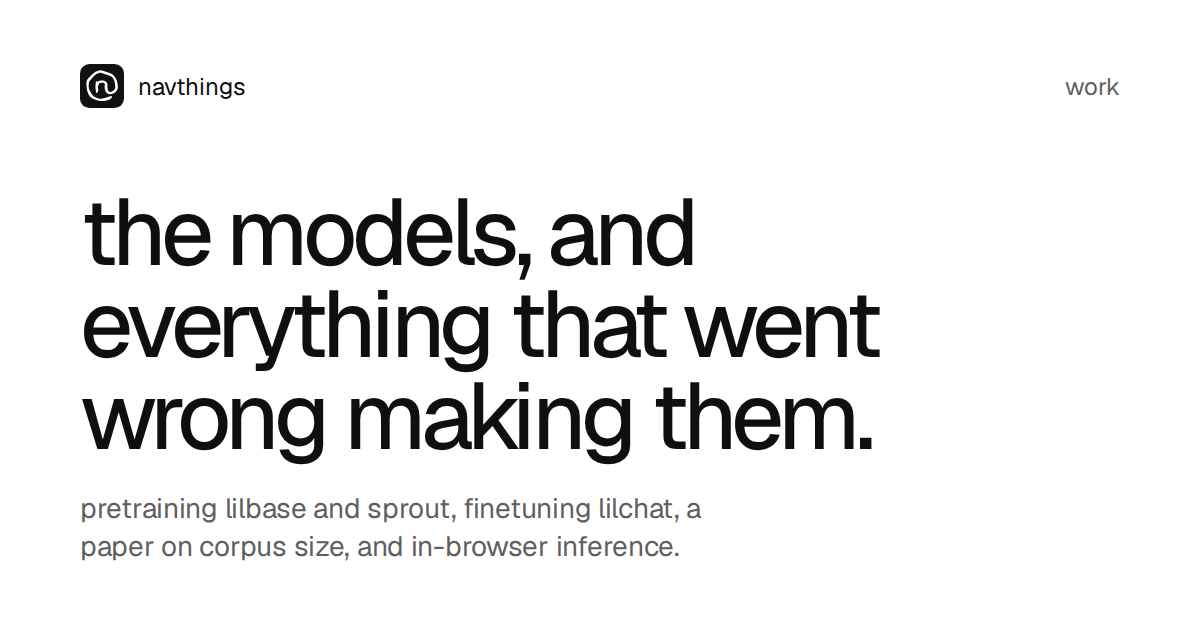
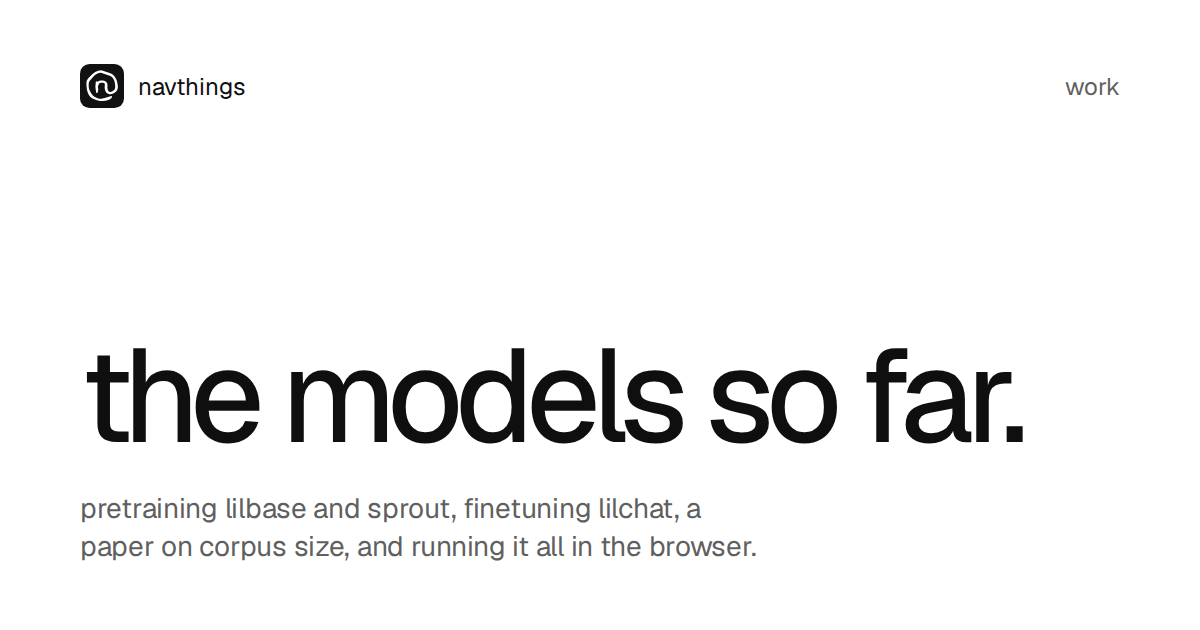
plainer copy: no more one line closers on the case studies, fewer lists and clever taglines, headings that just say what they are

Changed region(s): [[0.0617, 0.3016, 0.8633, 0.754], [0.3392, 0.8444, 0.6167, 0.9048]]

diff --git a/index.html b/index.html
@@ -72,7 +72,7 @@
       <div class="hero-inner">
         <h1 class="hero-title" data-tokens>hi, i'm nav. i build language models <span class="soft">and research how they <span data-scrib="circle" data-scrib-on="manual">learn</span>.</span></h1>
         <p class="hero-sub" data-reveal style="--d: 1.15s">
-          machine learning engineer and researcher in australia. i work on the whole loop: data, pretraining, finetuning, evaluation and inference. right now that's <a href="#sprout">sprout</a>, a 523m param base model about a third of the way through training.
+          machine learning engineer and researcher in australia. i train my own language models and test what they actually learned. right now thats <a href="#sprout">sprout</a>, a 523m param base model about a third of the way through training.
         </p>
         <div class="row" data-reveal style="--d: 1.3s">
           <a class="btn dark" href="#work"><span class="inner">see the work</span></a>
@@ -85,7 +85,7 @@
     </section>
 
     <section class="statement wrap">
-      <p class="scrub">i like understanding a model all the way down. the tokenizer, the training run, why the loss does what it does, and getting it running somewhere people can actually use it.</p>
+      <p class="scrub">i like knowing how every part of a model works, from the tokenizer to why the loss does what it does, and then getting it running somewhere people can actually try it.</p>
     </section>
 
     <section class="areas wrap wide" data-label="what i do">
@@ -95,7 +95,7 @@
       <div class="area-list follow" data-stagger="0.06">
         <a class="area-row" href="work/sprout.html" data-reveal>
           <span class="area-name">pretraining</span>
-          <span class="area-text">llama style models from 8m to 523m params. the big ones run in jax on a tpu v5e-8, with gqa, rope, swiglu, sharded adamw, cosine or wsd schedules, and checkpoints that survive 8.4 hour sessions.</span>
+          <span class="area-text">llama style models from 8m to 523m params. the big ones are written in jax and trained on a kaggle tpu v5e-8, in 8.4 hour sessions that save and pick up where they left off.</span>
           <span class="area-link cap">lilbase, sprout</span>
         </a>
         <a class="area-row" href="work/lilchat.html" data-reveal>
@@ -105,17 +105,17 @@
         </a>
         <a class="area-row" href="work/corpus-size.html" data-reveal>
           <span class="area-name">research</span>
-          <span class="area-text">controlled experiments on how much data a model actually needs. the corpus size paper is published on zenodo.</span>
+          <span class="area-text">how much data a model actually needs. i trained the same model on four amounts of data and wrote it up as a paper.</span>
           <span class="area-link cap">the paper</span>
         </a>
         <a class="area-row" href="work/lilbase.html" data-reveal>
           <span class="area-name">evaluation</span>
-          <span class="area-text">zero shot hellaswag, arc-easy and lambada against gpt-2 through one shared script, and held out eval loss every 500 steps on the big runs.</span>
+          <span class="area-text">every model goes through the same zero shot script, hellaswag, arc-easy and lambada, and gets compared against gpt-2.</span>
           <span class="area-link cap">lilbase</span>
         </a>
         <a class="area-row" href="work/playground.html" data-reveal>
           <span class="area-name">inference</span>
-          <span class="area-text">4 and 8 bit gguf exports that run in ollama, llama.cpp and straight in the browser through webassembly.</span>
+          <span class="area-text">every model gets a 4 and 8 bit gguf, so they run in ollama and right here in the browser.</span>
           <span class="area-link cap">playground</span>
         </a>
       </div>
@@ -136,7 +136,7 @@
             <p class="stage"><span class="cap">sep 23 · lilbase</span>297m params, 6.1 billion tokens of fineweb-edu, pretrained in jax on a tpu v5e-8.</p>
             <p class="stage"><span class="cap">now · sprout</span>523m params, 12 billion tokens from four sources. about a third of the way through training.</p>
           </div>
-          <p class="scale-end">8.2m to 523m in under a month.</p>
+          <p class="scale-end">8.2m on sep 4, 523m now.</p>
         </div>
         <div class="dots" id="dots" aria-hidden="true"></div>
       </div>
@@ -144,7 +144,7 @@
 
     <section class="work wrap wide" id="work" data-label="work">
       <div class="section-head">
-        <h2 class="h-section" data-words>the models, and everything that went <span data-scrib="double">wrong</span> making them.</h2>
+        <h2 class="h-section" data-words>the models <span data-scrib="double">so far</span>.</h2>
       </div>
 
       <div class="stack">
@@ -183,7 +183,7 @@
           <div class="card-text">
             <div>
               <h3 class="card-title" style="view-transition-name: t-lilchat"><a class="stretch" href="work/lilchat.html">lilchat</a></h3>
-              <p class="card-desc">supervised finetuning of lilbase on smol-smoltalk in mlx, with the loss only on the assistant turns. val loss went from 2.230 to 1.337. very confident, knows nothing.</p>
+              <p class="card-desc">supervised finetuning of lilbase on smol-smoltalk in mlx, with the loss only on the assistant turns. val loss went from 2.230 to 1.337.</p>
               <p class="card-wrong"><span>what went wrong</span>it told me the capital of australia is melbourne. then perth.</p>
             </div>
             <div class="row">
@@ -206,7 +206,7 @@
           <div class="card-text">
             <div>
               <h3 class="card-title" style="view-transition-name: t-paper"><a class="stretch" href="work/corpus-size.html">the paper</a></h3>
-              <p class="card-desc">a controlled study of how corpus size affects generalisation. same model, same settings, four data sizes. at 1% it memorised, by 10% the train and val gap was gone.</p>
+              <p class="card-desc">the same model trained on 1, 5, 10 and 15% of tinystories. at 1% it memorised its stories, and by 10% the gap between train and val loss was gone.</p>
               <p class="card-wrong"><span>what went wrong</span>15% did slightly worse than 10%. it probably never got through all its data in 5000 steps.</p>
             </div>
             <div class="row">
@@ -224,7 +224,7 @@
           <div class="card-text">
             <div>
               <h3 class="card-title" style="view-transition-name: t-playground"><a class="stretch" href="work/playground.html">playground</a></h3>
-              <p class="card-desc">client side inference for all my models. quantized gguf files running on llama.cpp compiled to webassembly, so nothing you type leaves your machine.</p>
+              <p class="card-desc">all my models running in the browser, on llama.cpp compiled to webassembly. nothing you type leaves your computer.</p>
               <p class="card-wrong"><span>what went wrong</span>safari says it can run the fast engine, then cant. multithreading broke firefox, so i undid it.</p>
             </div>
             <div class="row">
@@ -275,7 +275,7 @@
 
     <section class="writing wrap wide" id="writing" data-label="writing">
       <div class="section-head">
-        <h2 class="h-section" data-words>short posts about each model. mostly what <span data-scrib="circle">broke</span>.</h2>
+        <h2 class="h-section" data-words>what i've <span data-scrib="circle">written</span>.</h2>
       </div>
       <div class="posts follow" data-stagger="0.05">
         <a class="post-row" href="blog/lilchat.html" data-peek="a base model just continues text. if you ask it a question itll probably write 5 more questions instead of answering." data-reveal><span class="cap">2026-09-26</span><span class="t" style="view-transition-name: p-lilchat">teaching lilbase to talk</span><span class="cap kind">finetuning</span></a>
@@ -293,7 +293,7 @@
       <div class="play-card sq" data-reveal="scale">
         <div>
           <h2 class="h-section">talk to my models, right here in your browser.</h2>
-          <p class="soft">pick one and say something. it downloads once, then runs on your own computer. theyre small, so they make stuff up. a lot.</p>
+          <p class="soft">pick one and say something. it downloads once, then runs on your own computer. theyre small, so they make stuff up a lot.</p>
           <p class="soft">the <a href="playground/">playground</a> also has lilstory's tokenizer and a neural net you can draw digits for.</p>
         </div>
         <form class="ask" action="playground/" method="get" data-ask>

diff --git a/playground/index.html b/playground/index.html
@@ -101,14 +101,14 @@
       </section>
 
       <p class="note" data-reveal>
-        runs on <a href="https://github.com/ngxson/wllama" target="_blank" rel="noopener">wllama</a>, which is llama.cpp in your browser. the models are on <a href="https://huggingface.co/navthings" target="_blank" rel="noopener">hugging face</a>. theyre small, so they make stuff up. a lot.
+        runs on <a href="https://github.com/ngxson/wllama" target="_blank" rel="noopener">wllama</a>, which is llama.cpp in your browser. the models are on <a href="https://huggingface.co/navthings" target="_blank" rel="noopener">hugging face</a>. theyre small, so they make stuff up a lot.
       </p>
 
       <section class="pg-demo reads" id="tokenizer" data-label="the tokenizer">
         <div class="demo-grid reads-grid">
           <div class="demo-copy">
             <h2 class="h-section" data-words>how a model reads.</h2>
-            <p class="soft" data-reveal>a model never sees the text itself. it gets cut into pieces first, and every piece is just a number. this is lilstory's tokenizer, 8,000 pieces it learned from about 2 million kids stories.</p>
+            <p class="soft" data-reveal>before a model reads anything, the text gets cut into pieces and each piece becomes a number. this is the tokenizer i trained for lilstory, 8000 pieces it learned from about 2 million kids stories.</p>
             <p class="soft" data-reveal>words it saw a lot are one piece, anything else gets chopped up. duck is one token, tpu is t, p, u. my all lowercase headline costs 3 more tokens than the capitalised one, because the stories it learned from use proper capitals.</p>
             <div class="row" data-reveal>
               <a class="btn line small" href="https://github.com/navthings/lilstory" target="_blank" rel="noopener"><span class="inner">the tokenizer</span></a>
@@ -132,8 +132,8 @@
         <div class="demo-grid">
           <div class="demo-copy">
             <h2 class="h-section" data-words>a neural net with no libraries.</h2>
-            <p class="soft" data-reveal>no numpy, no pytorch, no mlx. every weight is a number in a python list, and backprop is written out by hand as loops. 784 pixels in, 32 hidden neurons, 10 outputs, about 25k weights. it gets 90.5% of the mnist test set right.</p>
-            <p class="soft" data-reveal>draw a digit, or show it a real one from the test set it never saw. its running the exact weights it learned.</p>
+            <p class="soft" data-reveal>this one doesnt use any libraries at all. every weight is a number in a python list and backprop is written out by hand as loops. its 784 pixels in, 32 hidden neurons and 10 outputs, about 25k weights, and it gets 90.5% of the mnist test set right.</p>
+            <p class="soft" data-reveal>draw a digit, or show it a real one from the test set, which it never trained on. its running the exact weights it learned.</p>
             <div class="row" data-reveal>
               <a class="btn line small" href="https://github.com/navthings/sllm" target="_blank" rel="noopener"><span class="inner">the code</span></a>
             </div>
@@ -204,7 +204,7 @@
     // chat models get a conversation, the rest continue whatever you start
     const MODELS = [
       { id: "lilchat", repo: "navthings/lilchat", file: "lilchat-q4_k_m.gguf", size: "274mb", mode: "chat",
-        what: "the chat one. very confident, knows nothing", ctx: 1024, temp: 0.4, max: 300 },
+        what: "the chat one, finetuned from lilbase", ctx: 1024, temp: 0.4, max: 300 },
       { id: "lilbase", repo: "navthings/lilbase", file: "lilbase-q4_k_m.gguf", size: "274mb", mode: "text",
         what: "continues whatever you start", ctx: 1024, temp: 0.8, max: 200, start: "The water cycle begins when" },
       { id: "tale", repo: "navthings/tale", file: "tale-q8_0.gguf", size: "52mb", mode: "text",

diff --git a/blog/index.html b/blog/index.html
@@ -13,14 +13,14 @@
   <meta property="og:title" content="writing" />
   <meta property="og:description" content="short posts about each model i have trained, and mostly what broke." />
   <meta property="og:url" content="https://navthings.github.io/blog/" />
-  <meta property="og:image" content="https://navthings.github.io/assets/og/writing.png?v=1" />
+  <meta property="og:image" content="https://navthings.github.io/assets/og/writing.png?v=2" />
   <meta property="og:image:width" content="1200" />
   <meta property="og:image:height" content="630" />
-  <meta property="og:image:alt" content="short posts about each model, mostly what broke, on navthings" />
+  <meta property="og:image:alt" content="what i've written so far, on navthings" />
   <meta name="twitter:card" content="summary_large_image" />
   <meta name="twitter:title" content="writing" />
   <meta name="twitter:description" content="short posts about each model i have trained, and mostly what broke." />
-  <meta name="twitter:image" content="https://navthings.github.io/assets/og/writing.png?v=1" />
+  <meta name="twitter:image" content="https://navthings.github.io/assets/og/writing.png?v=2" />
   <link rel="canonical" href="https://navthings.github.io/blog/" />
   <meta name="theme-color" content="#ffffff" />
   <link rel="icon" type="image/svg+xml" href="../favicon.svg" />
@@ -55,7 +55,7 @@
   <main class="sheet" id="main">
     <section class="list-page wrap wide" data-label="writing">
       <p class="cs-kicker cap" data-reveal><a href="../">navthings</a><span>/</span><span>writing</span></p>
-      <h1 class="list-title" data-words>short posts about each model. mostly what broke.</h1>
+      <h1 class="list-title" data-words>what i've written so far.</h1>
       <div class="posts follow" data-stagger="0.05">
         <a class="post-row" href="lilchat.html" data-peek="a base model just continues text. if you ask it a question itll probably write 5 more questions instead of answering." data-reveal><span class="cap">2026-09-26</span><span class="t" style="view-transition-name: p-lilchat">teaching lilbase to talk</span><span class="cap kind">finetuning</span></a>
         <a class="post-row" href="lilbase.html" data-peek="everything before this was trained on my laptop, but i wanted to make a proper base model, like one thats actually read a decent chunk of the internet." data-reveal><span class="cap">2026-09-23</span><span class="t" style="view-transition-name: p-lilbase">lilbase, 297m params on a free tpu</span><span class="cap kind">pretraining</span></a>

diff --git a/work/index.html b/work/index.html
@@ -13,14 +13,14 @@
   <meta property="og:title" content="work" />
   <meta property="og:description" content="case studies: pretraining lilbase and sprout, finetuning lilchat, a paper on corpus size, and in-browser inference." />
   <meta property="og:url" content="https://navthings.github.io/work/" />
-  <meta property="og:image" content="https://navthings.github.io/assets/og/work.png?v=1" />
+  <meta property="og:image" content="https://navthings.github.io/assets/og/work.png?v=2" />
   <meta property="og:image:width" content="1200" />
   <meta property="og:image:height" content="630" />
-  <meta property="og:image:alt" content="the models, and everything that went wrong making them, on navthings" />
+  <meta property="og:image:alt" content="the models so far, on navthings" />
   <meta name="twitter:card" content="summary_large_image" />
   <meta name="twitter:title" content="work" />
   <meta name="twitter:description" content="case studies: pretraining lilbase and sprout, finetuning lilchat, a paper on corpus size, and in-browser inference." />
-  <meta name="twitter:image" content="https://navthings.github.io/assets/og/work.png?v=1" />
+  <meta name="twitter:image" content="https://navthings.github.io/assets/og/work.png?v=2" />
   <link rel="canonical" href="https://navthings.github.io/work/" />
   <meta name="theme-color" content="#ffffff" />
   <link rel="icon" type="image/svg+xml" href="../favicon.svg" />
@@ -55,7 +55,7 @@
   <main class="sheet" id="main">
     <section class="list-page wrap wide" data-label="work">
       <p class="cs-kicker cap" data-reveal><a href="../">navthings</a><span>/</span><span>work</span></p>
-      <h1 class="list-title" data-words>the models, and everything that went wrong making them.</h1>
+      <h1 class="list-title" data-words>the models so far.</h1>
       <div class="area-list follow" data-stagger="0.06" style="margin-top: 48px">
         <a class="area-row" href="sprout.html" data-reveal>
           <span class="area-name" style="view-transition-name: t-sprout">sprout</span>

diff --git a/work/lilbase.html b/work/lilbase.html
@@ -143,7 +143,7 @@
             <div class="chips8"><span class="sq" style="--k: 0"></span><span class="sq" style="--k: 1"></span><span class="sq" style="--k: 2"></span><span class="sq" style="--k: 3"></span><span class="sq" style="--k: 4"></span><span class="sq" style="--k: 5"></span><span class="sq" style="--k: 6"></span><span class="sq" style="--k: 7"></span></div>
             <div class="chips8-note"><span>one step, 8 chips</span><span>65,536 tokens each</span></div>
           </div>
-          <p>the catch is a kaggle session only lasts about <strong>8.4 hours</strong>. so the script checkpoints every 500 steps, stops before its time runs out, and the next session picks up from there.</p>
+          <p>a kaggle session only lasts about <strong>8.4 hours</strong>, so the script checkpoints every 500 steps, stops before its time runs out, and the next session picks up from there.</p>
           <p>every 250 steps it logs grad norm, learning rate, tokens per second, eta, host ram, peak tpu memory, and a number called <code>q</code>. if <code>q</code> sits near zero, tokenization is the bottleneck and the tpu is waiting on the cpu.</p>
         </div>
       </div>
@@ -167,14 +167,11 @@
       </div>
     </section>
 
-    <section class="statement wrap">
-      <p class="scrub">six billion tokens, eight chips, and a training run that has to save and pick itself back up every 8.4 hours.</p>
-    </section>
     <section class="cs-next wrap wide">
       <a class="next-card sq" href="lilchat.html" data-reveal="scale">
         <span class="label">next case study</span>
         <span class="next-title" style="view-transition-name: t-lilchat">lilchat</span>
-        <p>a base model just continues text. this is lilbase, taught to hold a conversation.</p>
+        <p>lilbase, finetuned into a chat model in one night on a macbook air.</p>
       </a>
     </section>
 

diff --git a/work/sprout.html b/work/sprout.html
@@ -117,7 +117,7 @@
       <div class="cs-sec" data-reveal data-label="why">
         <h2 class="cs-h">why</h2>
         <div class="cs-text">
-          <p>lilchat showed that a 297m model can learn to hold a conversation and still not know much. finetuning teaches the format, not the facts.</p>
+          <p>lilchat can hold a conversation now, but it still gets basic facts wrong. 297m params trained on 6.1 billion tokens just doesnt know much.</p>
           <p>the fix is a bigger base model that has read more. thats sprout.</p>
         </div>
       </div>
@@ -188,15 +188,12 @@
       </div>
     </section>
 
-    <section class="statement wrap">
-      <p class="scrub">lilchat taught me that finetuning fixes the format, not the knowledge. so the next step is more model and more data.</p>
-    </section>
 
     <section class="cs-next wrap wide">
       <a class="next-card sq" href="lilbase.html" data-reveal="scale">
         <span class="label">next case study</span>
         <span class="next-title" style="view-transition-name: t-lilbase">lilbase</span>
-        <p>297m params, pretrained in jax on a tpu. the recipe sprout scales up.</p>
+        <p>the 297m base model that sprout is built on.</p>
       </a>
     </section>
 

diff --git a/assets/home.js b/assets/home.js
@@ -179,11 +179,11 @@
     }
 
     function caption(t) {
-      if (t < 0.05) return ", so it always picks the most likely word.";
+      if (t < 0.05) return ", so it always picks the likeliest word.";
       if (t < 0.5) return ", about what lilchat runs at.";
-      if (t < 0.85) return ", so its getting creative.";
-      if (t < 1.2) return ", confidently wrong, like lilchat.";
-      return ", so its just making stuff up.";
+      if (t < 0.85) return ", so it starts picking less likely words.";
+      if (t < 1.2) return ", so a lot of words are up for grabs.";
+      return ", so its mostly guessing.";
     }
 
     // one sample per setting, so the headline holds still once you let go

diff --git a/work/lilchat.html b/work/lilchat.html
@@ -149,14 +149,11 @@
       </div>
     </section>
 
-    <section class="statement wrap">
-      <p class="scrub">very confident. knows nothing. 297m params just doesnt know much, and thats what sprout is for.</p>
-    </section>
     <section class="cs-next wrap wide">
       <a class="next-card sq" href="corpus-size.html" data-reveal="scale">
         <span class="label">next case study</span>
         <span class="next-title" style="view-transition-name: t-paper">the paper</span>
-        <p>same model, four amounts of data. how much does the data actually matter?</p>
+        <p>the same model trained on four amounts of data, written up as a paper.</p>
       </a>
     </section>
 

diff --git a/work/corpus-size.html b/work/corpus-size.html
@@ -150,14 +150,11 @@
       </div>
     </section>
 
-    <section class="statement wrap">
-      <p class="scrub">with 22k stories it just memorised them. with 220k it actually had to learn something.</p>
-    </section>
     <section class="cs-next wrap wide">
       <a class="next-card sq" href="playground.html" data-reveal="scale">
         <span class="label">next case study</span>
         <span class="next-title" style="view-transition-name: t-playground">playground</span>
-        <p>all my models, running in your browser tab. no install, no server.</p>
+        <p>the page where all my models run in your browser.</p>
       </a>
     </section>
 

diff --git a/work/playground.html b/work/playground.html
@@ -116,9 +116,6 @@
       </div>
     </section>
 
-    <section class="statement wrap">
-      <p class="scrub">no server, no api key, no account. just a static page and your own computer doing the work.</p>
-    </section>
     <section class="cs-next wrap wide">
       <a class="next-card sq" href="sprout.html" data-reveal="scale">
         <span class="label">next case study</span>
